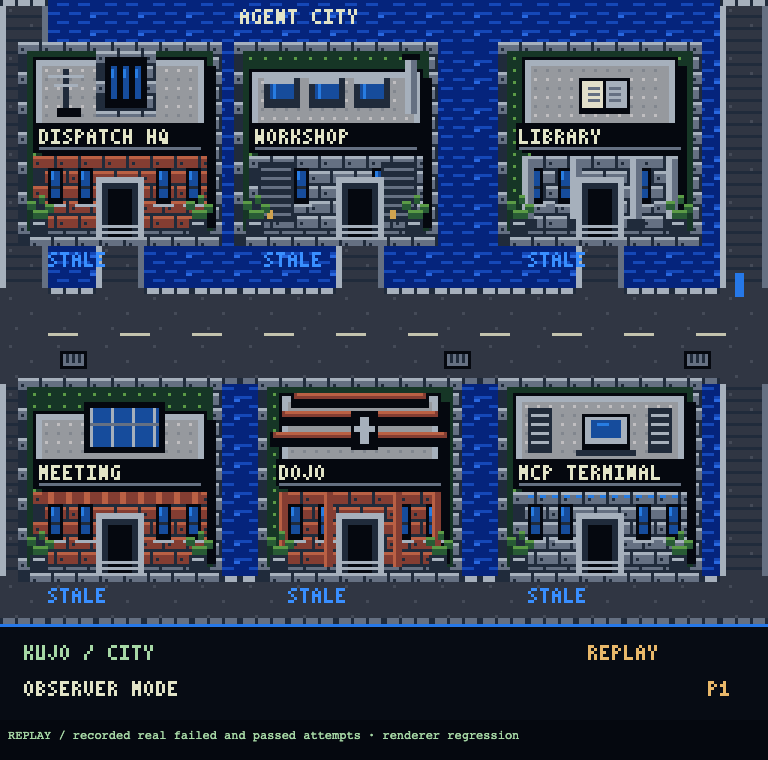
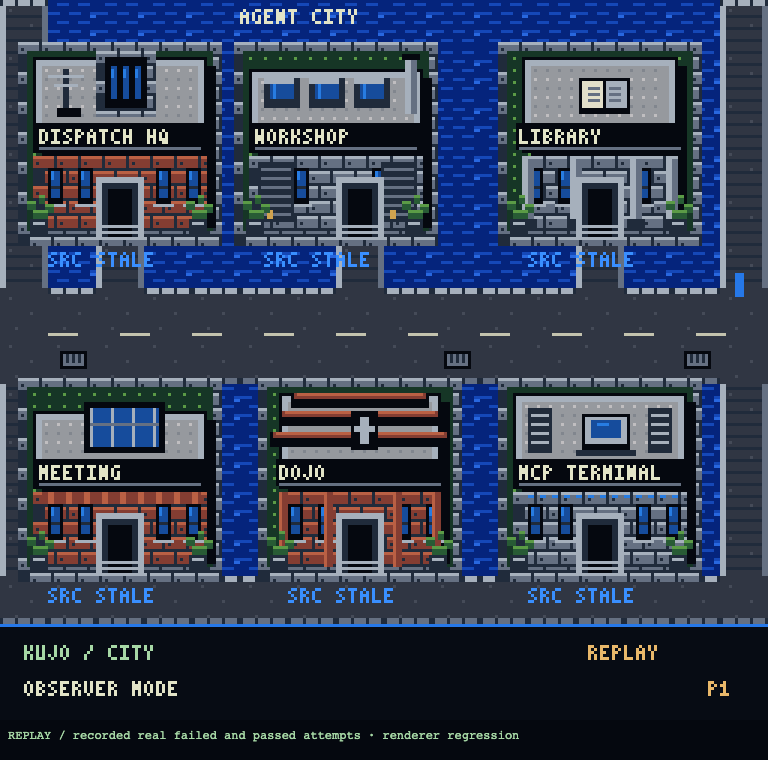
Age city source labels using injected observation time

diff --git a/scripts/cityscape-proof.ts b/scripts/cityscape-proof.ts
@@ -146,6 +146,42 @@ try {
     0,
     "Same-order replacement snapshot retained old check results",
   );
+  // A newer injected observation clock must age labels without inventing events.
+  const freshness = await page.evaluate(() => {
+    const r = (window as any).visualRenderer;
+    const t = (window as any).visualTruth;
+    const beforeTruth = JSON.stringify(t);
+    const latest = Math.max(
+      ...Object.values(t.agents).flatMap((a: any) =>
+        Object.values(a.operations).map((o: any) => o.observedAt ?? 0),
+      ),
+    );
+    const p = { tick: 0, seen: [], walkers: {} };
+    r.scene = "city";
+    r.draw(p, t, "LIVE", latest);
+    const recent = Array.from(
+      r.app.renderer.extract.pixels({
+        target: r.app.stage,
+        frame: r.app.screen,
+      }).pixels,
+    );
+    r.draw(p, t, "LIVE", latest + 60000);
+    const aged = Array.from(
+      r.app.renderer.extract.pixels({
+        target: r.app.stage,
+        frame: r.app.screen,
+      }).pixels,
+    );
+    return {
+      changedPixels: recent.filter((v, i) => v !== aged[i]).length,
+      truthUnchanged: beforeTruth === JSON.stringify(t),
+    };
+  });
+  assert(
+    freshness.changedPixels > 0,
+    "City source labels did not age with injected time",
+  );
+  assert(freshness.truthUnchanged, "Presentation aging mutated runtime truth");
   for (const scene of [
     "city",
     "meeting",
@@ -174,6 +210,7 @@ try {
         cohorts,
         browser: browser.version(),
         ...result,
+        freshness,
         sameOrderSnapshotClearsPriorOutcomes: resetPixels === 0,
         errors,
         at: new Date().toISOString(),

diff --git a/packages/renderer-pixi/index.ts b/packages/renderer-pixi/index.ts
@@ -190,7 +190,7 @@ export class CityRenderer {
   }
   private onSelect = (_id: string) => {};
   private onBuilding = (_id: string) => {};
-  draw(p: Presentation, truth: Truth, health: string) {
+  draw(p: Presentation, truth: Truth, health: string, observedNow?: number) {
     if (this.follow && p.walkers[this.follow])
       this.scene = p.walkers[this.follow].scene;
     const g = this.ink;
@@ -315,15 +315,16 @@ export class CityRenderer {
         const state = buildingState(
           o.id as Scene,
           truth,
-          Math.max(
-            ...Object.values(truth.agents).map((a) => a.lastObserved),
-            0,
-          ),
+          observedNow ??
+            Math.max(
+              ...Object.values(truth.agents).map((a) => a.lastObserved),
+              0,
+            ),
           health,
         );
         text(
           g,
-          state.operations.length ? state.sourceHealth : "NO SOURCE",
+          state.operations.length ? "SRC " + state.sourceHealth : "NO SOURCE",
           o.x + 8,
           Math.min(201, o.y + 68),
           state.operations.length ? C.blue : C.gold,

diff --git a/apps/web/main.ts b/apps/web/main.ts
@@ -478,7 +478,12 @@ setInterval(() => {
   }
   if (rendererReady) {
     try {
-      renderer.draw(presentation, truth, replayMode ? "REPLAY" : health);
+      renderer.draw(
+        presentation,
+        truth,
+        replayMode ? "REPLAY" : health,
+        Date.now(),
+      );
     } catch {
       rendererReady = false;
       $("#canvas").textContent =

diff --git a/evidence/cityscape/source-clock-review.md b/evidence/cityscape/source-clock-review.md
@@ -1,0 +1,9 @@
+# City source clock correction — 2026-09-08
+
+City labels previously derived “now” from the latest agent observation. With no new events that reference time did not advance, so an old source could continue to appear LIVE while the DOM inspector used actual observation time and showed RECENT/STALE.
+
+The app now injects observation time into renderer.draw independently of presentation ticks. The renderer passes it to the existing pure buildingState calculation. It does not read a wall clock itself or mutate truth. Optional event-time fallback preserves older deterministic renderer callers; replay semantics and pinned semantic hashes are unchanged. Building labels now prefix health with SRC, separating source state from agent activity.
+
+The browser regression redraws retained truth at two injected times sixty seconds apart, with identical presentation state: 432 pixel channels changed and serialized truth remained identical. Existing Dojo failure/pass glyphs and replacement-snapshot checks still pass; zero page errors. Typecheck/build passed. The initial test helper failed browser serialization with __name undefined and was replaced with direct pixel reads; its log is retained. An independent host process-creation resource error occurred while the test was running; that process was polled to completion rather than duplicated.
+
+This is a source-freshness presentation fix, not a new source operation, throughput qualification or native hidden-tab test.
